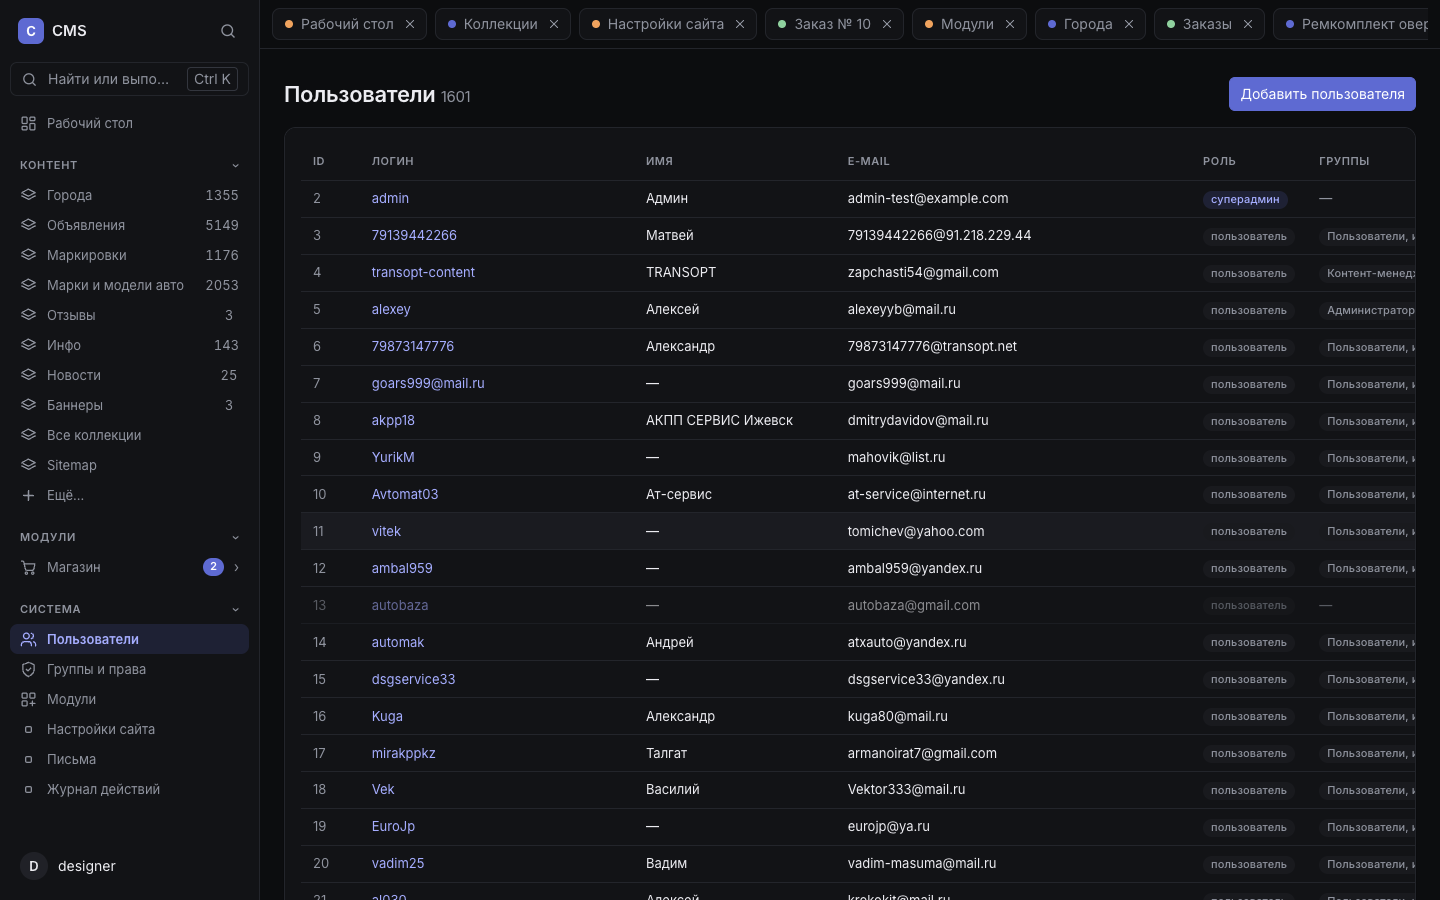
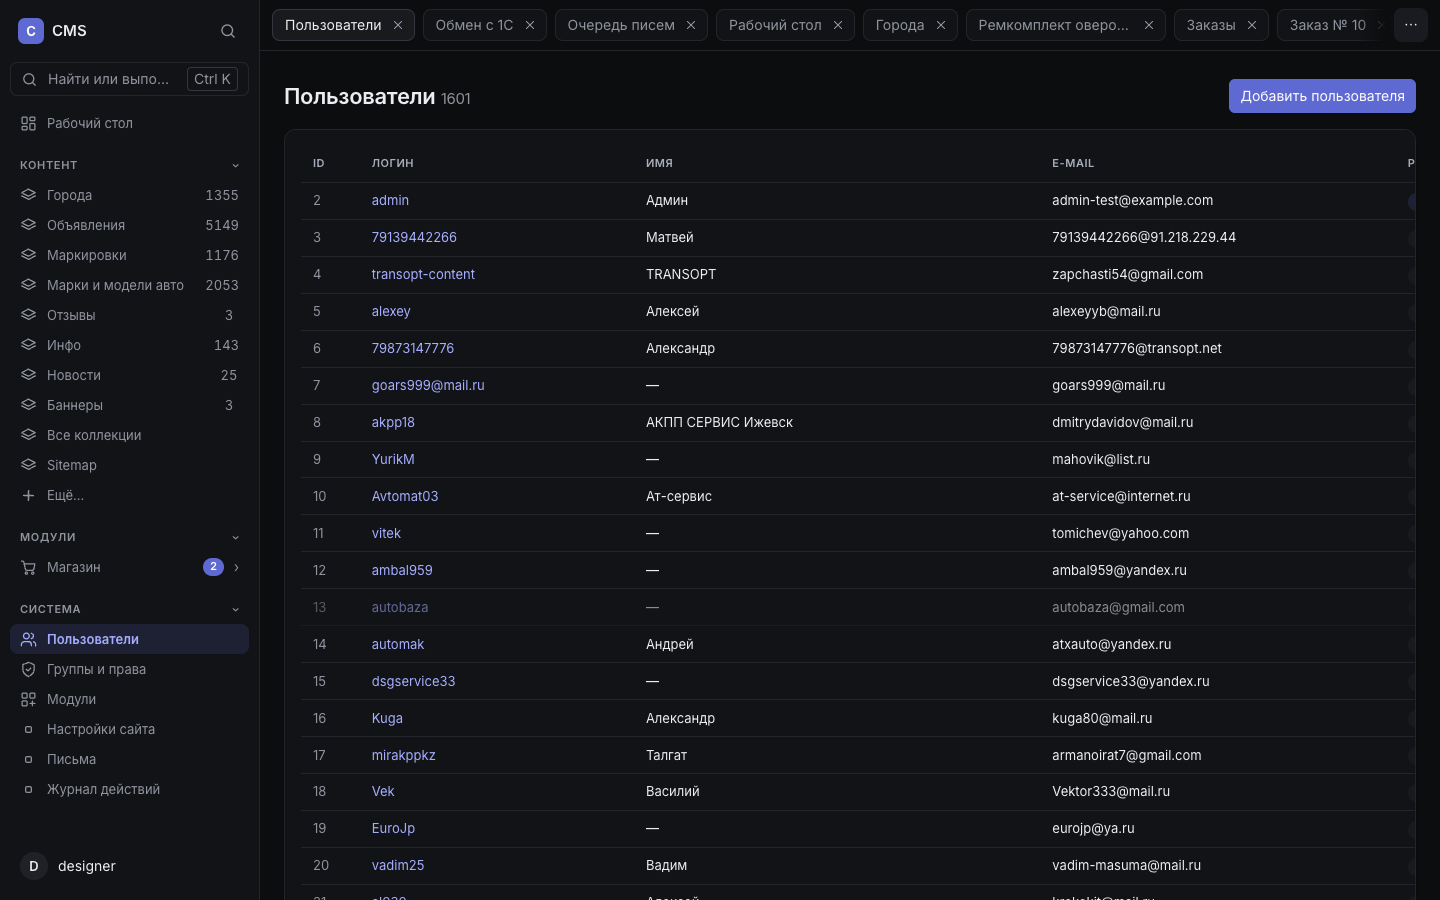
Дизайн: меню всех вкладок и колонки таблицы пользователей

diff --git a/static/admin/design.css b/static/admin/design.css
@@ -267,6 +267,28 @@ td { padding: 8px var(--sp-3); }
 .stock-table td.num input { width: 140px; text-align: right; }
 .stock-table tr.muted td { color: var(--muted); }
 
+/* Список всех открытых вкладок */
+.tabs-all { position: relative; flex: none; }
+.tabs-all > summary { list-style: none; cursor: pointer; }
+.tabs-all > summary::-webkit-details-marker { display: none; }
+.tabs-all-menu {
+  position: absolute; right: 0; top: calc(100% + 6px); z-index: 60;
+  display: grid; min-width: 300px; max-width: 420px; max-height: 60vh; overflow: auto;
+  padding: var(--sp-1); background: var(--panel);
+  border: 1px solid var(--border-strong); border-radius: var(--r-lg); box-shadow: var(--shadow-pop);
+}
+.tabs-all-menu a {
+  padding: 6px var(--sp-2); border-radius: var(--r-sm);
+  color: var(--text); font-size: var(--fs-base);
+  overflow: hidden; text-overflow: ellipsis; white-space: nowrap;
+}
+.tabs-all-menu a:hover { background: var(--hover); text-decoration: none; }
+.tabs-all-menu a.on { background: var(--accent-soft); color: var(--accent-text); font-weight: 600; }
+
+.users-table { min-width: 0; width: 100%; table-layout: fixed; }
+.users-table th, .users-table td { overflow: hidden; text-overflow: ellipsis; white-space: nowrap; }
+.users-table .groups { max-width: none; }
+
 /* Мобильная адаптация */
 @media (max-width: 900px) {
   .list-table { min-width: 720px; }

diff --git a/templates/admin/base.html b/templates/admin/base.html
@@ -59,6 +59,16 @@
         <button class="ico nav-toggle" type="button" data-nav-toggle aria-controls="sidebar" aria-label="Меню">{{ ui.icon("menu") }}</button>
         <div id="open-tabs" class="open-tabs"{% if shell.prefs.tabs and shell.is_get and not no_tab %} data-record-page{% endif %}>{% set tabs = shell.tabs %}{% include "_tabs.html" %}</div>
         {% if shell.prefs.tabs and shell.is_get and not no_tab %}<span hidden hx-post="/admin/tabs" hx-trigger="load" hx-vals='{{ {"url": shell.url, "title": self.title()}|tojson }}' hx-target="#open-tabs" hx-swap="innerHTML"></span>{% endif %}
+        {% if shell.prefs.tabs and shell.tabs %}
+        <details class="tabs-all">
+          <summary class="ico" title="Все открытые страницы" aria-label="Все открытые страницы">⋯</summary>
+          <div class="tabs-all-menu">
+            {% for t in shell.tabs %}
+            <a href="{{ t.url }}" class="{% if t.active %}on{% endif %}">{{ t.title }}</a>
+            {% endfor %}
+          </div>
+        </details>
+        {% endif %}
       </header>
     {% endif %}
   <main class="{% block main_class %}container{% endblock %}">

diff --git a/templates/admin/users.html b/templates/admin/users.html
@@ -8,7 +8,8 @@
 </div>
 
 <div class="card table-wrap">
-  <table>
+  <table class="users-table">
+    <colgroup><col style="width:48px"><col style="width:150px"><col style="width:130px"><col style="width:190px"><col style="width:110px"><col style="width:160px"><col style="width:100px"><col style="width:120px"><col style="width:90px"></colgroup>
     <thead>
       <tr><th>ID</th><th>Логин</th><th>Имя</th><th>E-mail</th><th>Роль</th><th>Группы</th><th>Статус</th><th>Последний вход</th><th></th></tr>
     </thead>
